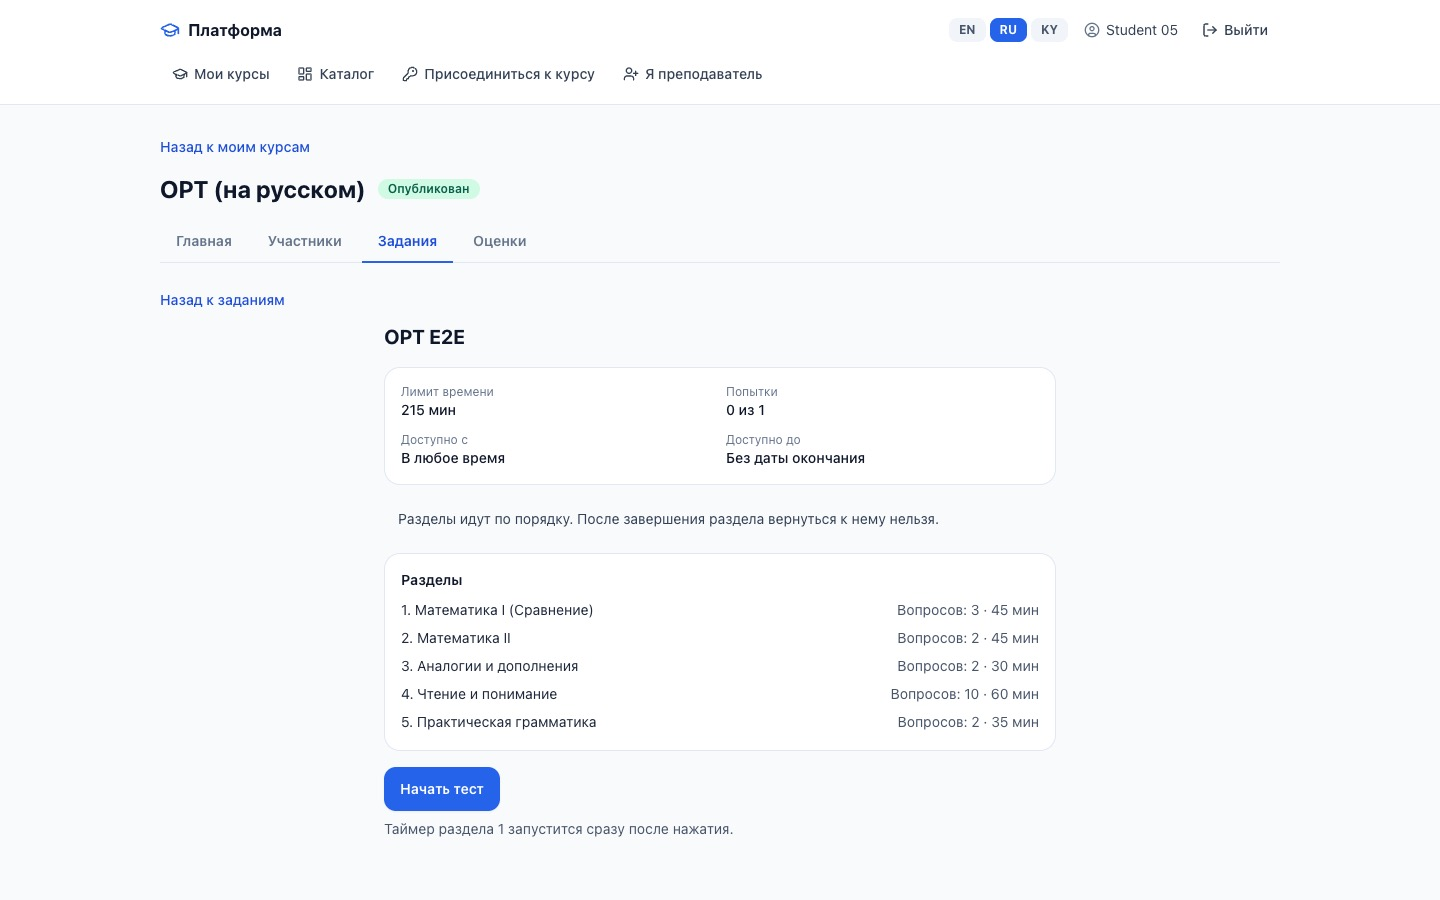
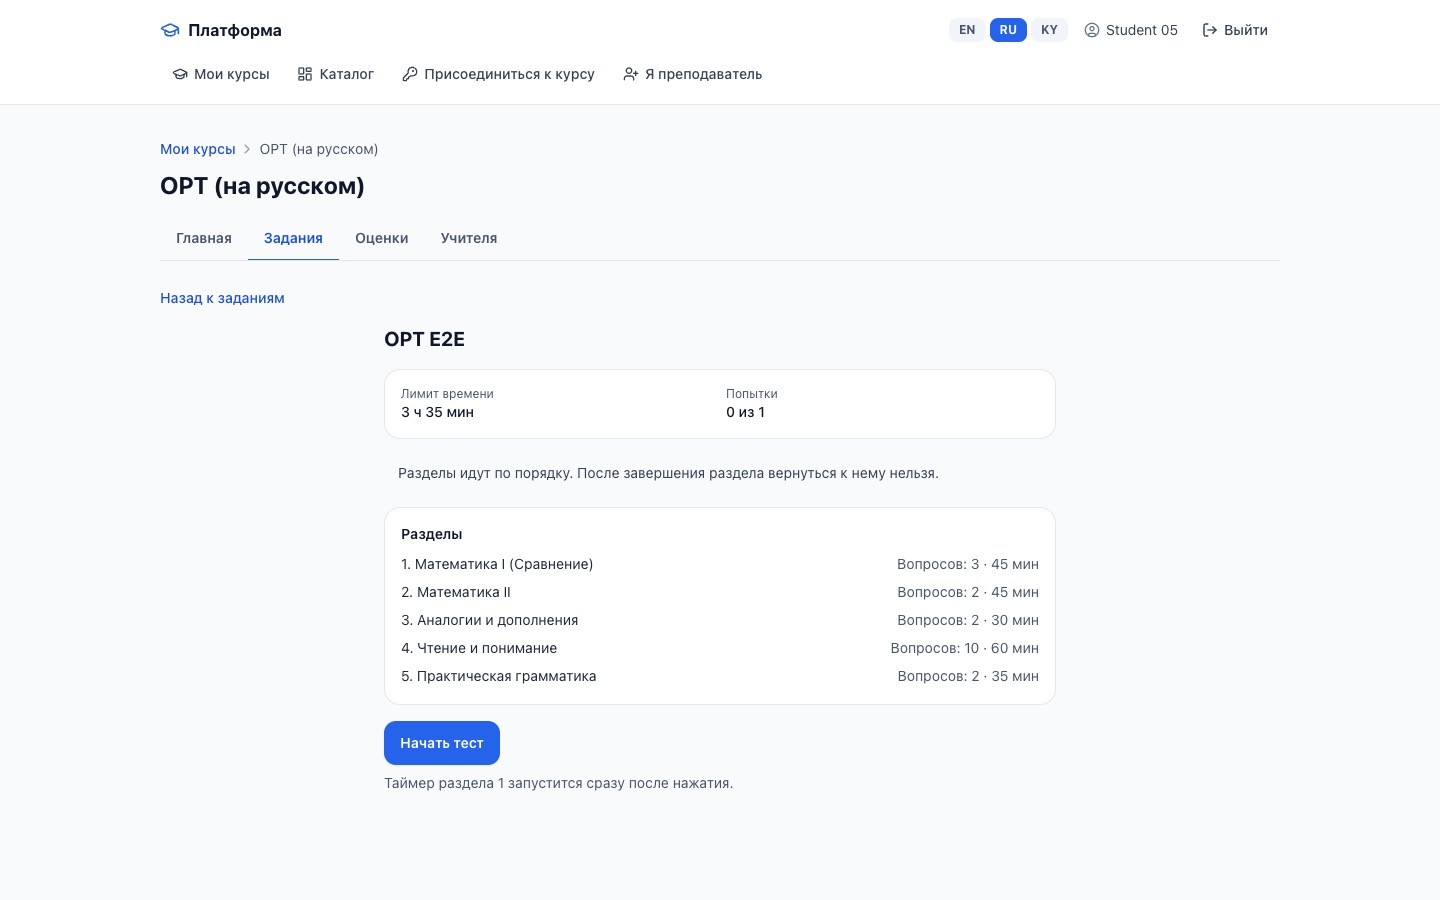
Phase 6b S7b: lobby S9 details, lobby baselines on top of phase-6b

diff --git a/docs/phases/PHASE_6_screens/6b/INDEX.md b/docs/phases/PHASE_6_screens/6b/INDEX.md
@@ -170,7 +170,7 @@ passage lines, result card with five section rows).
 
 | Files (`ort-<screen>-<viewport>-<lang>-{before,after}.jpg`) | What changed | Part 1 IDs |
 |---|---|---|
-| `ort-lobby-{phone,desktop}-{ru,ky}` | "Start test" button with the hint "the section 1 timer starts at once" under it; on phones the start row is sticky at the bottom of the screen (in the full-page shot it floats over the middle, where the 812 px viewport ends); attempts value "0 из 1" without the repeated word; section rows as a two-column grid with the meta on one line | L1, L2, L3 |
+| `ort-lobby-{phone,desktop}-{ru,ky}` | "Start test" button with the hint "the section 1 timer starts at once" under it; on phones the start row is sticky at the bottom of the screen (in the full-page shot it floats over the middle, where the 812 px viewport ends); attempts value "0 из 1" without the repeated word; section rows as a two-column grid with the meta on one line; empty "available from / until" rows hidden and the total time as "3 h 35 min" (S9, left to S7b by S6b); the page frame (course header, breadcrumbs) is S6b's | L1, L2, L3, S9 |
 | `ort-comparison-{phone,desktop}-{ru,ky}` | Sans-serif stem and choices (one family); 44 px answer rows and flag button on phones; timer label "Left in section" on desktop; phones: "Questions 1/3" button in the header opens the palette sheet, the palette and the outline finish button are no longer below the question; design-system Prev/Next buttons | P1, P3, P4, P7 |
 | `ort-flagged-palette-{phone,desktop}-{ru,ky}` | Additive palette states: green fill = answered, grey = not, ring = current, amber dot = flagged (also on the current question); legend shows the dot, 12 px text; phones: the palette is the bottom sheet (focus trap, Esc, finish action inside), 44 px buttons; amber dot on the header button when something is flagged | P1, P2, P3, cross-cutting (legend size) |
 | `ort-section-end-{phone,desktop}-{ru,ky}` | Phase 6 `Dialog` (focus trap, Esc, focus return); confirm says "Finish section" like the button that opened it; red only for the no-return sentence, counts neutral; full-width stacked buttons on phones | P5, cross-cutting (colors, components) |
